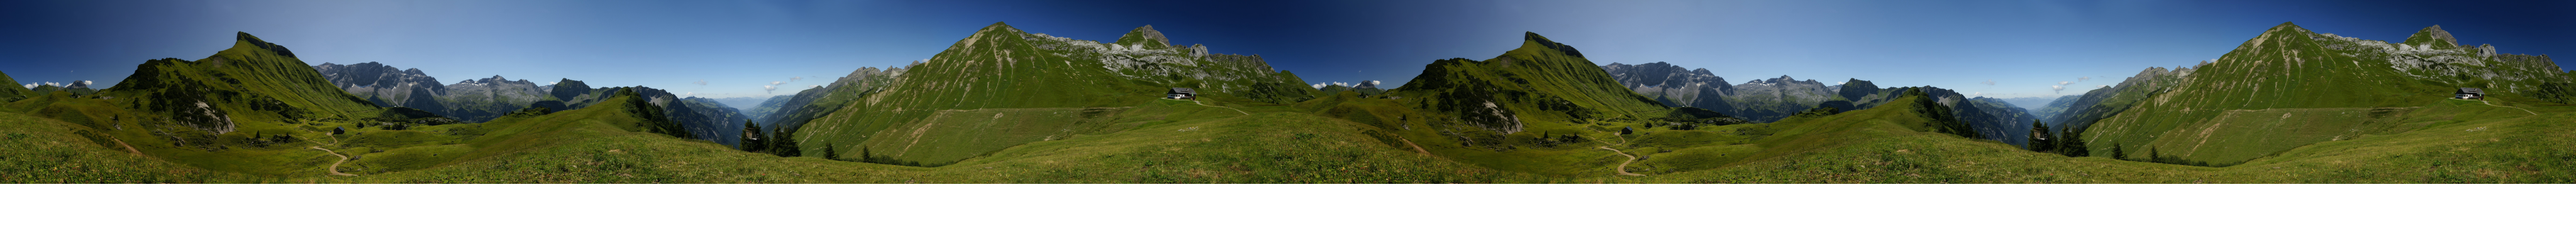
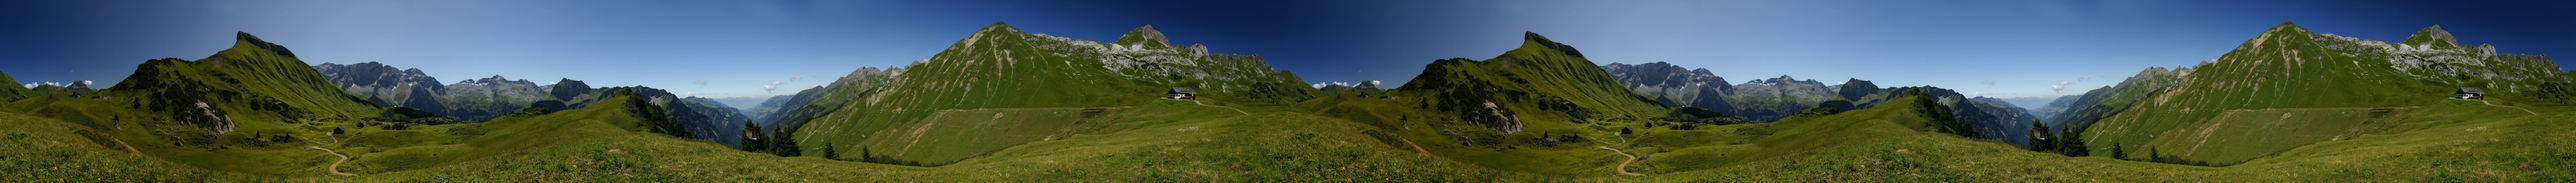
Fixed the sky texture

diff --git a/RayCaster01/ViewRenderer.cs b/RayCaster01/ViewRenderer.cs
@@ -165,7 +165,7 @@ namespace RayCaster01
 
             var textX = (int) ((angle * (skyTexture.Width / 2.0))/360.0);
             var screenRect = new Rectangle(0, 0, _width, _height / 2);
-            var textureRect = new Rectangle(textX, 0, _width, (_height / 2) - 100);
+            var textureRect = new Rectangle(textX, 0, _width, skyTexture.Height);
             var color = Color.DarkGray;
 
             _spriteBatch.Draw(skyTexture, screenRect, textureRect, color, 0f, Vector2.One, SpriteEffects.None, 0f);
